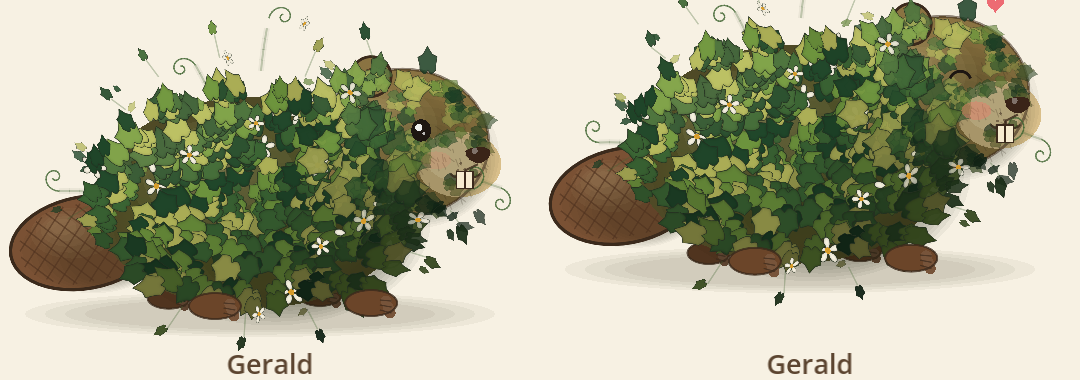
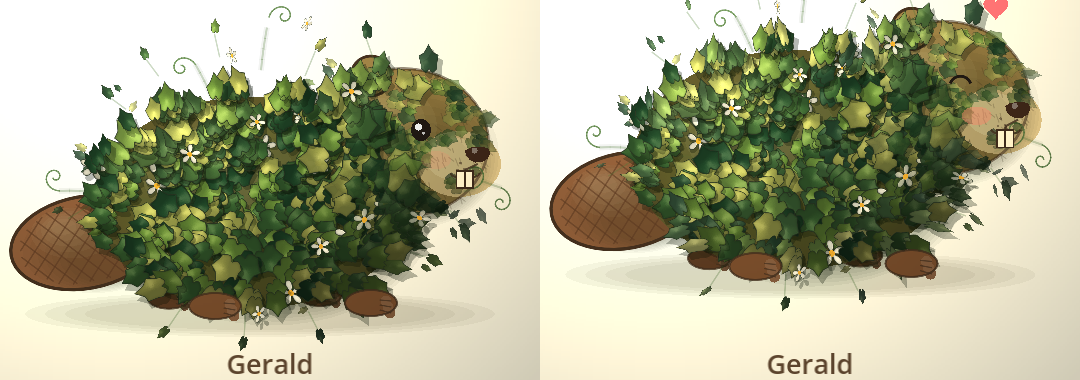
Light and shadow: normal-mapped leaf sprites under a warm PointLight2D, leaf-on-leaf soft shadows; realistic wind (rolling gusts, bend, flutter, twist showing the paler edge); a small shiver in gusts and on tap (~51 fps)

diff --git a/tools/make_normal_maps.py b/tools/make_normal_maps.py
@@ -1,0 +1,51 @@
+#!/usr/bin/env python3
+"""Normal maps for the leaf sprite sheets, so Godot's 2D lights can shape every leaf (a gentle dome, a raised
+midrib, sunken veins) and leaves glint as they turn in the wind.
+
+For each assets/sprites/<name>.png this writes assets/sprites/<name>_n.png with the same layout: row 0 (the fill)
+gets a height field from the leaf's own shape (thicker in the middle) with the ink row's lines pressed in as veins;
+row 1 (the ink) stays flat.
+
+    python3 tools/make_normal_maps.py
+"""
+import glob
+import os
+
+import numpy as np
+from PIL import Image, ImageFilter
+
+ROOT = os.path.dirname(os.path.dirname(os.path.abspath(__file__)))
+CELL = 160
+STRENGTH = 3.2
+
+
+def normals_from_height(height):
+    gy, gx = np.gradient(height)
+    nx, ny, nz = -gx * STRENGTH, -gy * STRENGTH, np.ones_like(height)
+    length = np.sqrt(nx * nx + ny * ny + nz * nz)
+    n = np.stack([nx / length, ny / length, nz / length], axis=-1)
+    return ((n * 0.5 + 0.5) * 255).astype(np.uint8)
+
+
+def main():
+    for path in sorted(glob.glob(os.path.join(ROOT, 'assets/sprites/*.png'))):
+        if path.endswith('_n.png'):
+            continue
+        sheet = Image.open(path).convert('RGBA')
+        w, h = sheet.size
+        out = np.zeros((h, w, 4), dtype=np.uint8)
+        out[..., 0], out[..., 1], out[..., 2], out[..., 3] = 128, 128, 255, 255   # flat everywhere by default
+        for col in range(w // CELL):
+            fill = sheet.crop((col * CELL, 0, (col + 1) * CELL, CELL)).getchannel('A')
+            ink = sheet.crop((col * CELL, CELL, (col + 1) * CELL, 2 * CELL)).getchannel('A')
+            dome = np.asarray(fill.filter(ImageFilter.GaussianBlur(22)), dtype=np.float32) / 255.0
+            dome = dome * dome   # rounder in the middle, falling to the edges
+            veins = np.asarray(ink.filter(ImageFilter.GaussianBlur(1.2)), dtype=np.float32) / 255.0
+            height = dome * 14.0 - veins * 1.6
+            out[0:CELL, col * CELL:(col + 1) * CELL, 0:3] = normals_from_height(height)
+        Image.fromarray(out, 'RGBA').save(path.replace('.png', '_n.png'), optimize=True)
+        print(os.path.basename(path).replace('.png', '_n.png'))
+
+
+if __name__ == '__main__':
+    main()

diff --git a/README.md b/README.md
@@ -16,6 +16,13 @@ A tiny Godot 4.7 (GL Compatibility, portrait 1080 × 1920) garden-creature lab. 
   rolls across him (rim leaves most; a tap shivers them all). Leaves are baked sprites
   (`assets/sprites/*.png` from `tools/bake_leaf_sprites.py`; real lobed ivy from `tools/make_ivy_sprites.py`), so 670
   rustling leaves run at the display's frame rate.
+- **Light and shadow** (Godot 2D lighting): every leaf sprite has a normal map (`tools/make_normal_maps.py`: a
+  gentle dome and pressed-in veins) and is drawn as a `CanvasTexture`; a warm `PointLight2D` ("Sun") from the upper
+  left over a slightly dimmed `CanvasModulate` shapes each leaf, and leaves glint as they turn. Each leaf on the body
+  drops a soft shadow on whatever lies beneath it.
+- **Realistic wind**: a breeze plus gusts that roll across him left to right (`wind_at()`); leaves bend with it,
+  flutter on their stems, lift, and twist so their paler edge shows for a moment; deep leaves barely move. A strong
+  gust or a tap sends a small shiver through him.
 - **He is alive** (`scripts/pet_life.gd`): breathes (barely), blinks, follows your pointer with his eye and glances
   around when you're idle; every so often a gust goes through his leaves; tap him and he hops, his eye squeezes shut,
   his cheek flushes and a heart pops out. He himself does not sway - the leaves do.
